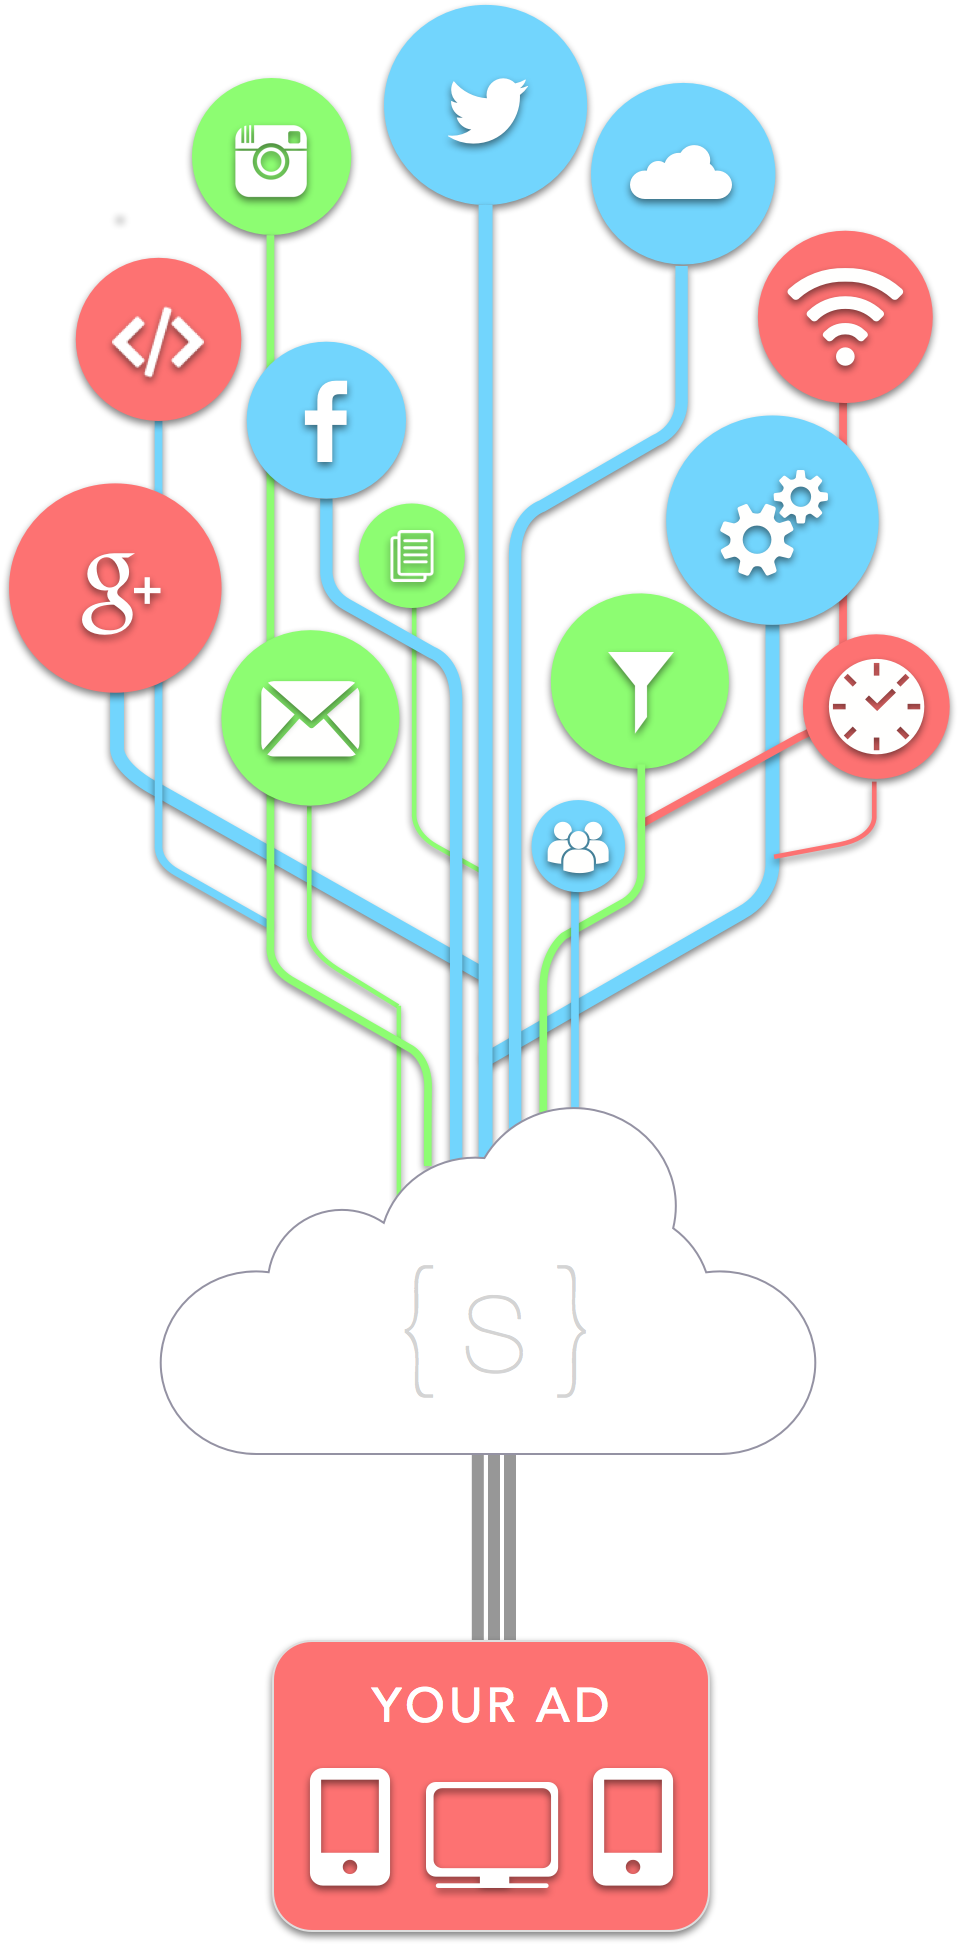
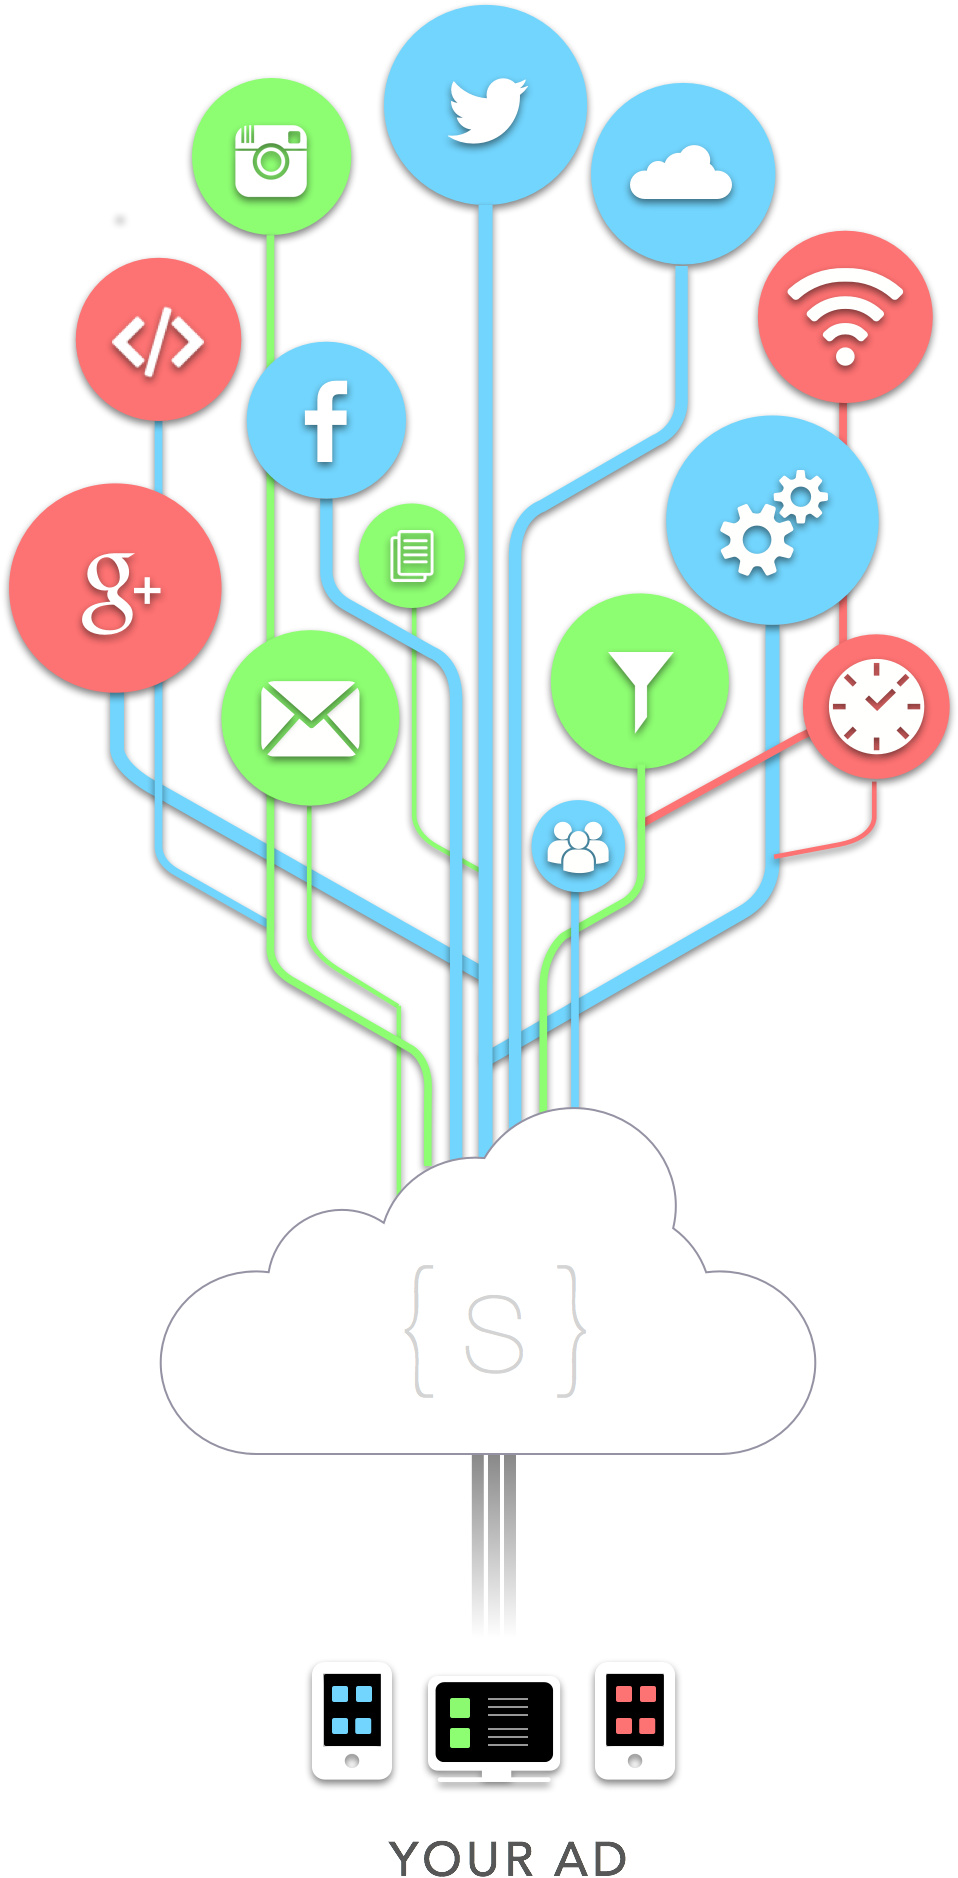
Updated CTA & cloud graphic

diff --git a/index.html b/index.html
@@ -70,7 +70,7 @@
           <div class="large-12 columns">
             <div class="collapse email">
               <form action="//slabs.us10.list-manage.com/subscribe/post-json?u=3094a6a434523a83166fd74a0&amp;id=f378498a6a&amp;c=?" method="POST" id="email-form" target="_blank">
-                <p class="small-9 columns top-email">Give us your email and we'll give you early access and a massive discount!!</p>
+                <p class="small-9 columns top-email offer">Sign up now and get a <br/>completely <span class="highlight">free campaign.</span></p>
 
                 <div class="small-9 columns">
                   <input id="email_input" type="email" name="EMAIL" placeholder="your email address" />

diff --git a/css/styles.css b/css/styles.css
@@ -311,6 +311,14 @@ ul li {
 	text-align: center;
 }
 
+.offer {
+	font-size:25px;
+	padding-left:15px;
+}
+
+.offer .highlight {
+	font-weight:bold;
+}
 
 .footer li,a {
 	color: rgb(143,143,143);
